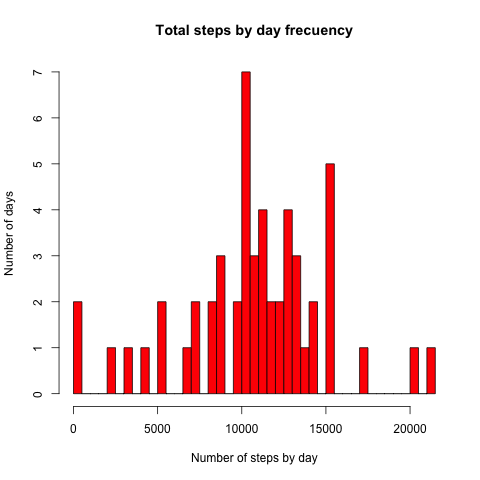
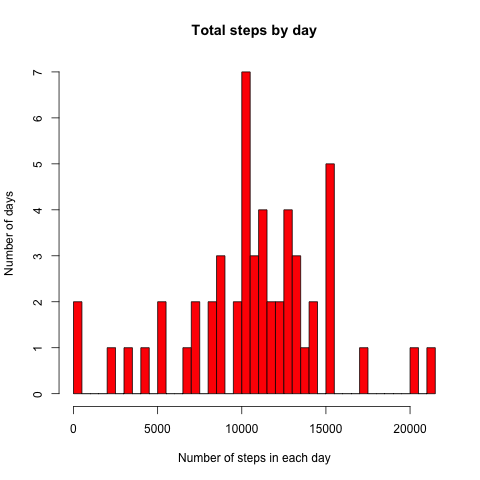
The First question complete
Done with question one.

Changed region(s): [[0.3125, 0.0312, 0.75, 0.0938], [0.375, 0.9375, 0.6875, 0.9688]]

diff --git a/assignment1.html b/assignment1.html
@@ -70,20 +70,22 @@ newStepData &lt;- StepData[!is.na(StepData$step),]</code></pre>
 </div>
 <div id="what-is-mean-total-number-of-steps-taken-per-day" class="section level2">
 <h2>What is mean total number of steps taken per day?</h2>
-<p>The mean for total number of steps taken per day is</p>
 <pre class="r"><code>splitDataByDate &lt;- split(newStepData$steps, newStepData$date)
 allDays &lt;- as.Date(sort(unique(newStepData$date)), format = &quot;%Y-%m-%d&quot;)
 sumStepByDate &lt;- as.data.frame(sapply(splitDataByDate, sum))
 names(sumStepByDate) &lt;- c(&quot;Steps&quot;)
 
 png(filename='EachDaySteps.png', width=480, height=480, units=&quot;px&quot;)
-hist(sumStepByDate$Steps, main=&quot;Total steps by day frecuency&quot;, xlab=&quot;Number of steps by day&quot;, ylab=&quot;Number of days&quot;, col=&quot;red&quot;, breaks = nrow(sumStepByDate))
+hist(sumStepByDate$Steps, main=&quot;Total steps by day&quot;, xlab=&quot;Number of steps in each day&quot;, ylab=&quot;Number of days&quot;, col=&quot;red&quot;, breaks = nrow(sumStepByDate))
 dev.off()</code></pre>
 <pre><code>## pdf 
 ##   2</code></pre>
 <p>The mean for total number of steps taken per day is</p>
 <pre class="r"><code>mean(sumStepByDate$Steps)</code></pre>
 <pre><code>## [1] 10766</code></pre>
+<p>The median for total steps in each day is</p>
+<pre class="r"><code>median(sumStepByDate$Steps)</code></pre>
+<pre><code>## [1] 10765</code></pre>
 <p>The graphic of total steps in eaach day in “EachDaySteps.png”</p>
 </div>
 <div id="what-is-the-average-daily-activity-pattern" class="section level2">
